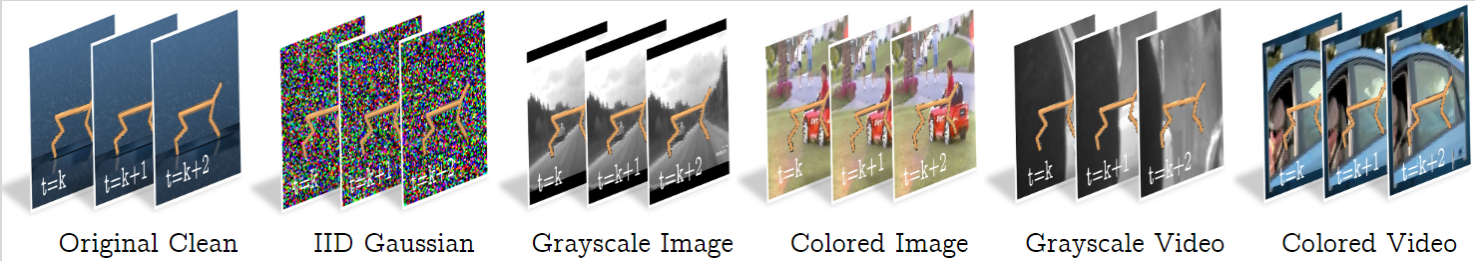
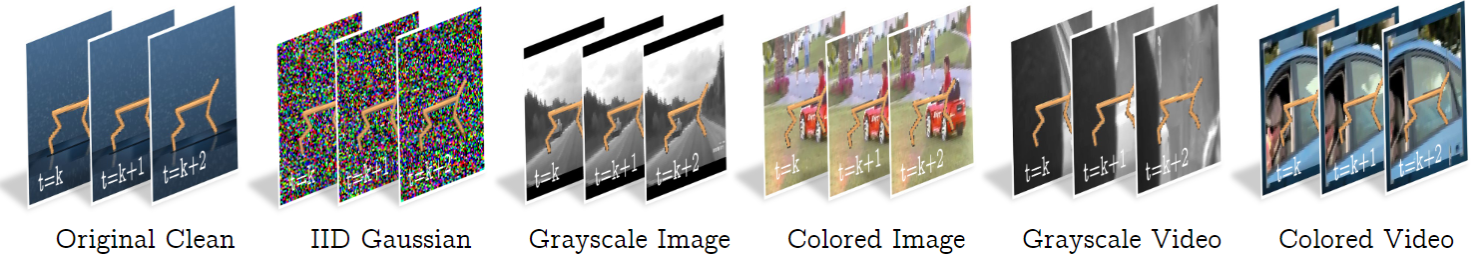
add fig

diff --git a/README.md b/README.md
@@ -4,7 +4,7 @@
 by [Ziyan "Ray" Luo](https://zyluo.netlify.app/), [Tianwei Ni](https://twni2016.github.io/), [Pierre-Luc Bacon](https://pierrelucbacon.com/), [Doina Precup](https://mila.quebec/en/directory/doina-precup), [Xujie Si](https://www.cs.toronto.edu/~six/)
 
 <p align="center">
-  <img src="environments/noise_illustration.png" alt="Examples of background noise settings in pixel-based domains." width="500"/>
+  <img src="environments/noise_illustration.png" alt="Examples of background noise settings in pixel-based domains." width="800"/>
 </p>
 
 A modular framework that affords the comparison of *different behavioral metrics learning methods* in deep reinforcement learning.
